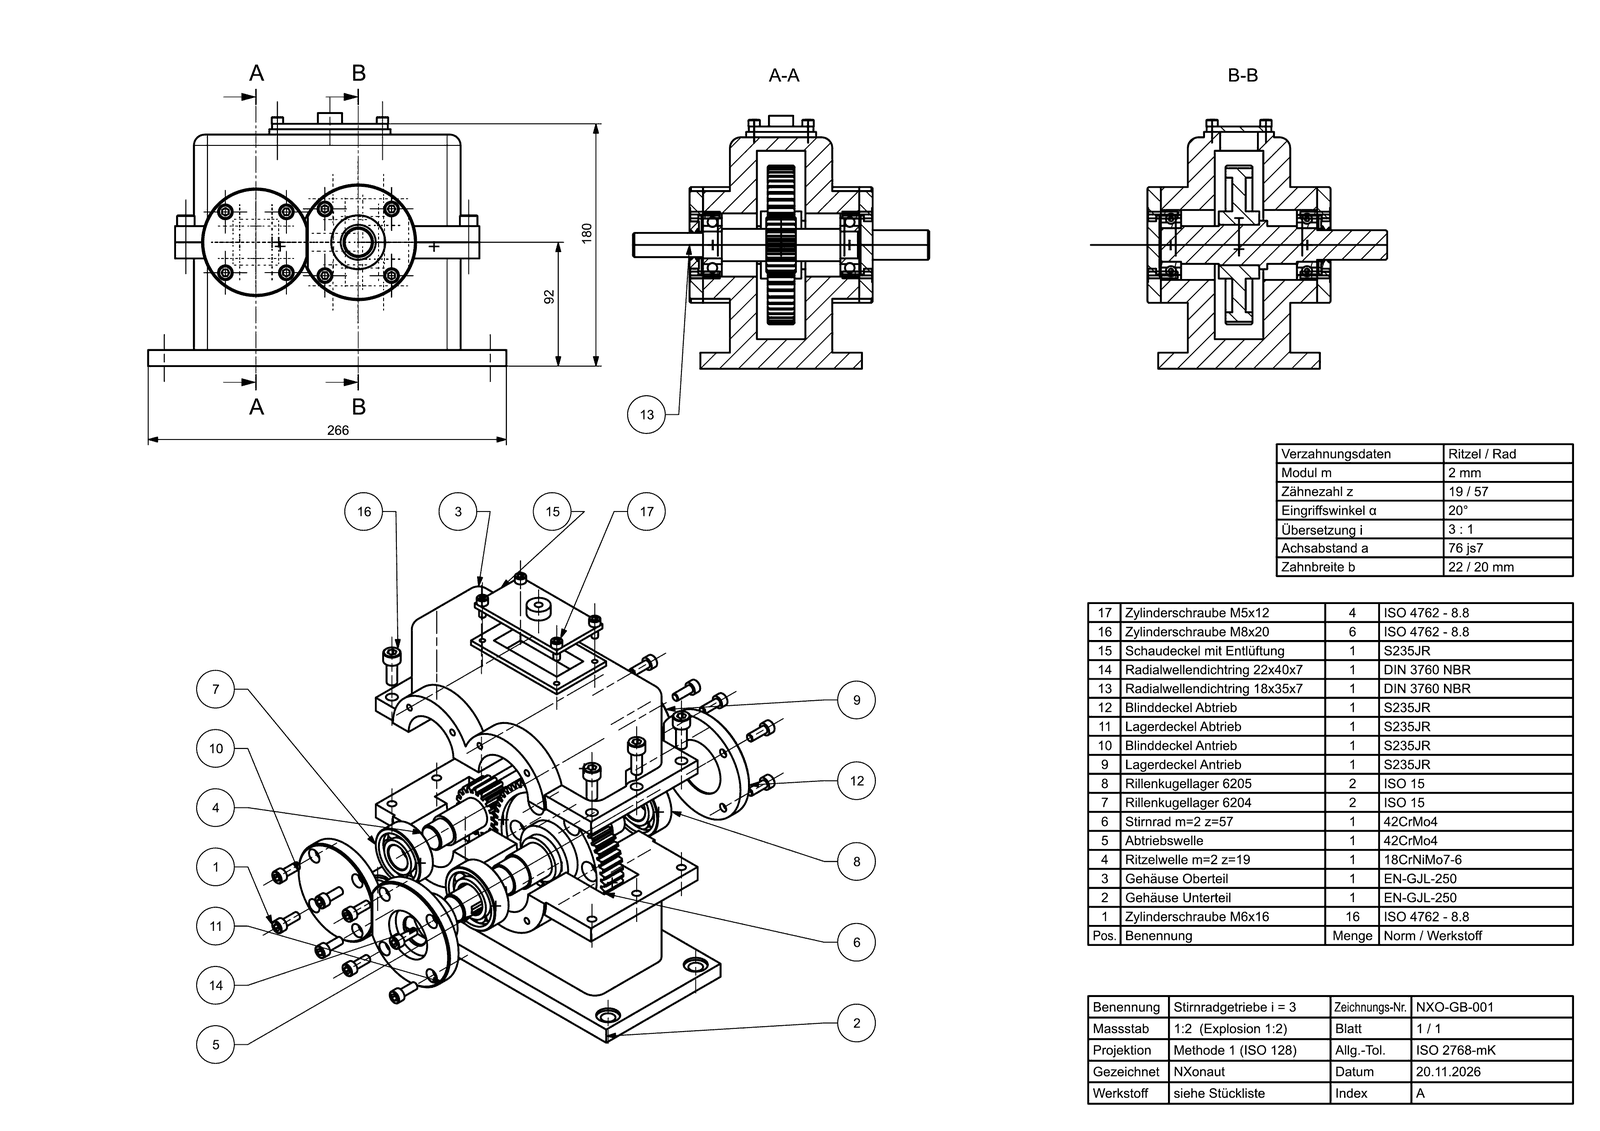
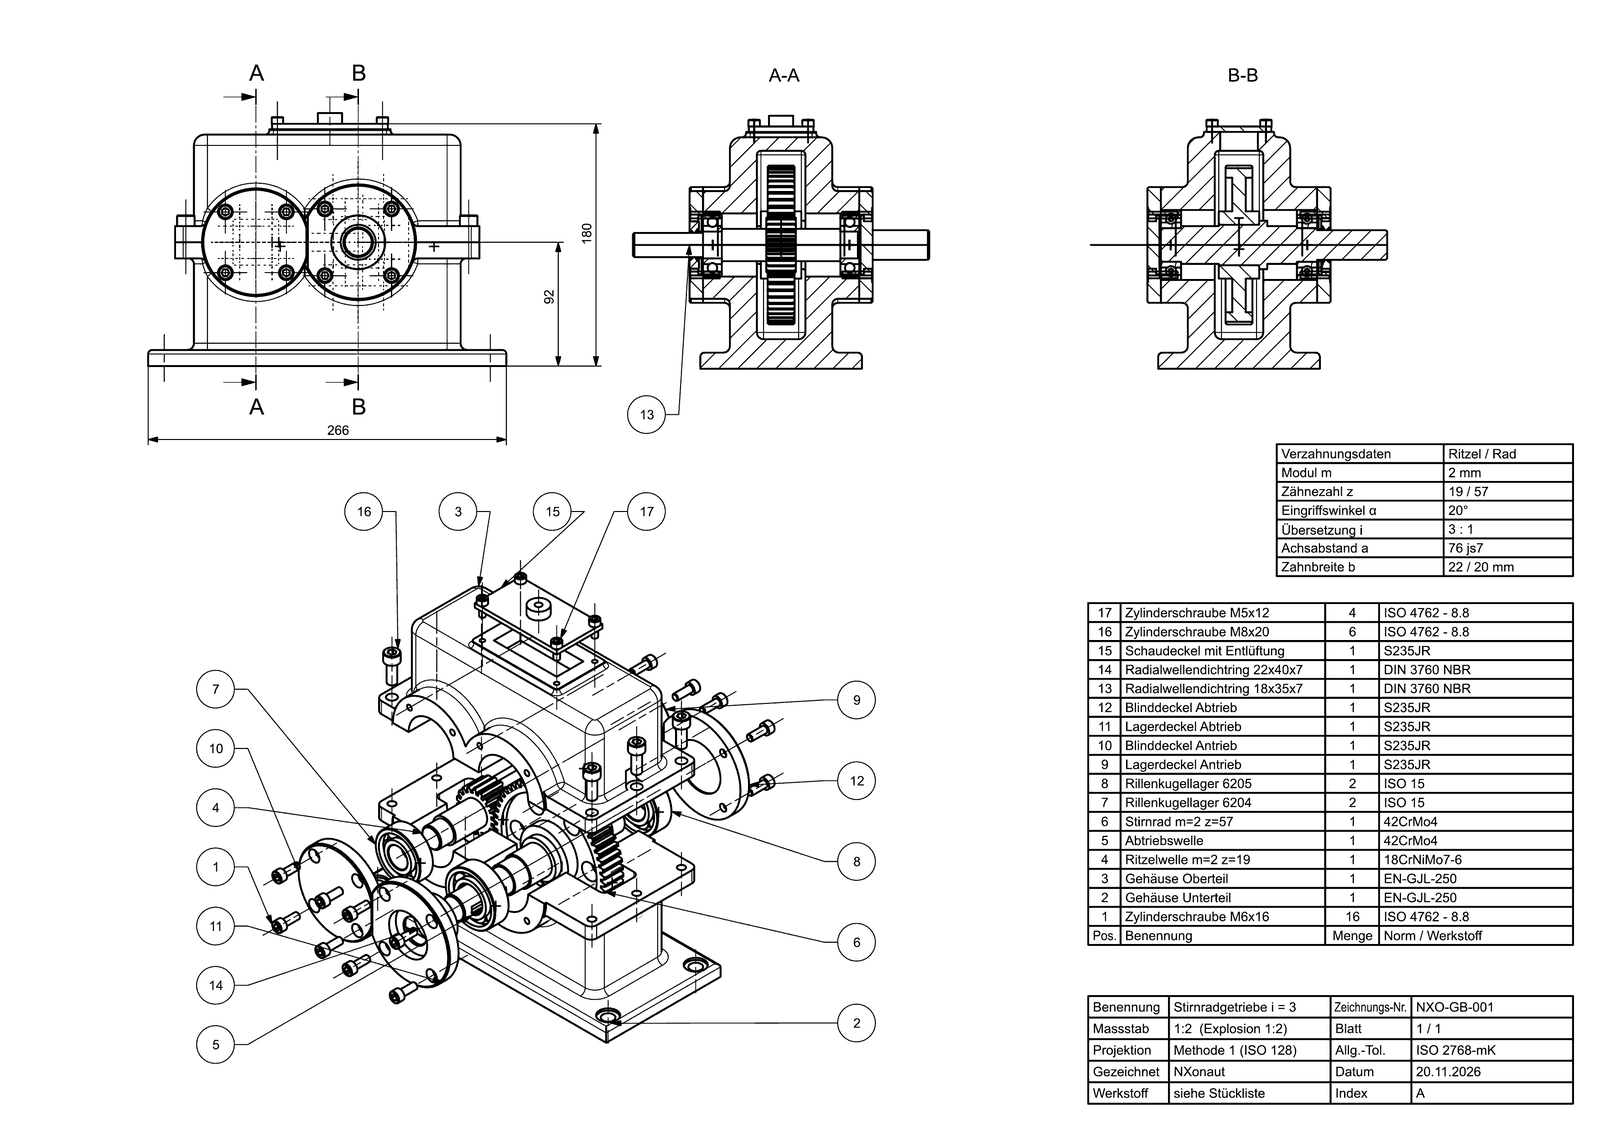
Gearbox example: coloured render and cast radii on the housing
Claude-Session: https://claude.ai/code/session_01URg8oBVKK4ipw7UEiFWjP1

diff --git a/README.md b/README.md
@@ -121,7 +121,7 @@ One sentence to Claude, in German:
 > *Konstruiere ein einstufiges Stirnradgetriebe als Baugruppe, mit Explosionsansicht und Zusammenbauzeichnung.*
 > (Design a single-stage spur gearbox as an assembly, with an exploded view and an assembly drawing.)
 
-Claude modelled a split housing, an input shaft with an integral pinion and an output
+Claude modelled a split cast housing (cast radii on every unmachined edge, machined faces left sharp), an input shaft with an integral pinion and an output
 shaft with a gear (involute teeth, module 2, 19 and 57 teeth, ratio 3 : 1, centre
 distance 76 mm), four ball bearings, two shaft seals, four bearing caps, an inspection
 cover and the bolts. It assembled the 42 components in NX 2512 with assembly constraints
@@ -132,7 +132,7 @@ shafts, an exploded isometric view, balloons, a parts list, a gear data table an
 filled-in title block, exported to PDF.
 
 <p align="center">
-  <img src="docs/assets/examples/gearbox.png" width="440" alt="Exploded view of a single-stage spur gearbox with housing, shafts, gears, bearings and bolts, modelled in NX by Claude" />
+  <img src="docs/assets/examples/gearbox.png" width="440" alt="Coloured exploded view of a single-stage spur gearbox with a green cast housing, shafts, gears, bearings and bolts, modelled in NX by Claude" />
   <img src="docs/assets/examples/gearbox-drawing.png" width="440" alt="A2 assembly drawing of the gearbox with sections, exploded view, balloons and parts list" />
   <br /><sub>Modelled and drawn by NXonaut with Claude in NX 2512.</sub>
 </p>

diff --git a/docs/index.md b/docs/index.md
@@ -93,7 +93,7 @@ One sentence to Claude, in German:
 > *Konstruiere ein einstufiges Stirnradgetriebe als Baugruppe, mit Explosionsansicht und Zusammenbauzeichnung.*
 > (Design a single-stage spur gearbox as an assembly, with an exploded view and an assembly drawing.)
 
-Claude modelled a split housing, an input shaft with an integral pinion and an output
+Claude modelled a split cast housing (cast radii on every unmachined edge, machined faces left sharp), an input shaft with an integral pinion and an output
 shaft with a gear (involute teeth, module 2, 19 and 57 teeth, ratio 3 : 1, centre
 distance 76 mm), four ball bearings, two shaft seals, four bearing caps, an inspection
 cover and the bolts. It assembled the 42 components in NX 2512 with assembly constraints
@@ -104,7 +104,7 @@ shafts, an exploded isometric view, balloons, a parts list, a gear data table an
 filled-in title block, exported to PDF.
 
 <p align="center">
-  <img src="assets/examples/gearbox.png" width="440" alt="Exploded view of a single-stage spur gearbox with housing, shafts, gears, bearings and bolts, modelled in NX by Claude" />
+  <img src="assets/examples/gearbox.png" width="440" alt="Coloured exploded view of a single-stage spur gearbox with a green cast housing, shafts, gears, bearings and bolts, modelled in NX by Claude" />
   <img src="assets/examples/gearbox-drawing.png" width="440" alt="A2 assembly drawing of the gearbox with sections, exploded view, balloons and parts list" />
   <br /><sub>Modelled and drawn by NXonaut with Claude in NX 2512.</sub>
 </p>
